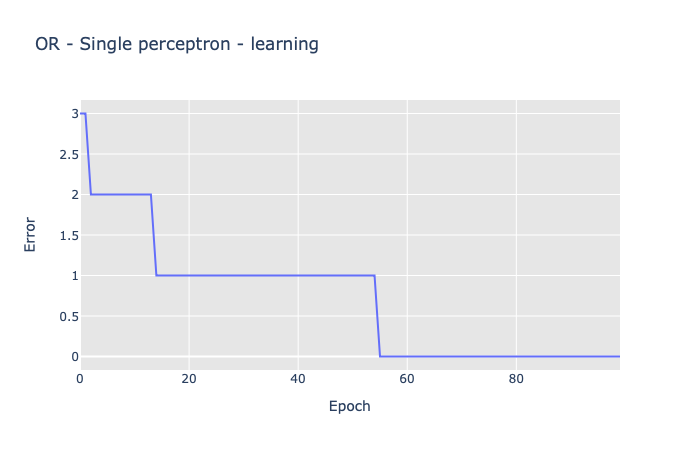
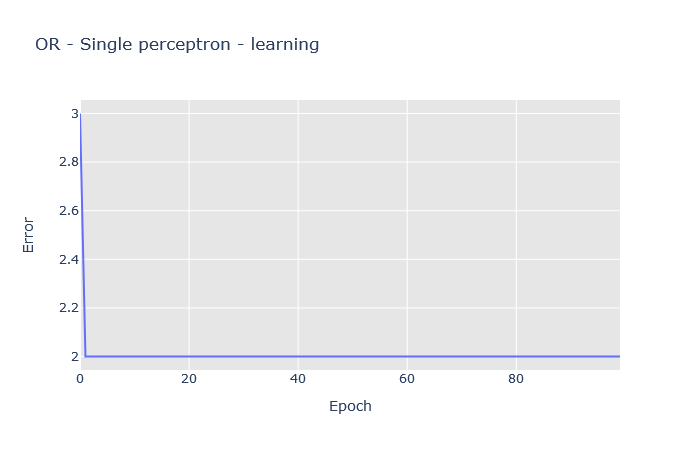
changed initialization weights and bias

diff --git a/Assignment3/Neural_Networks/Perceptron/perceptron.py b/Assignment3/Neural_Networks/Perceptron/perceptron.py
@@ -8,8 +8,8 @@ class Perceptron:
     # Epochs is the number of times the learning algorithm will run before stopping
     def __init__(self, num_inputs, learning_rate=0.01, epochs=100):
         # We might want to change the initialisation of the weights here, something to consider
-        self.weights = np.random.random(num_inputs)
-        self.weights = np.append(self.weights, 1)
+        self.weights = np.zeros(num_inputs + 1)
+        # self.weights = np.append(self.weights, 0)
         self.learning_rate = learning_rate
         self.epochs = epochs
 

diff --git a/Assignment3/Neural_Networks/Perceptron/main.py b/Assignment3/Neural_Networks/Perceptron/main.py
@@ -19,7 +19,7 @@ def main():
 
     csvFile = ["outputs"]
 
-    perceptron.train(training_inputs_OR, labels_OR, csvFile)
+    perceptron.train(training_inputs_AND, labels_AND, csvFile)
 
     with open('data.csv', 'w') as file:
         for line in csvFile:
@@ -27,8 +27,8 @@ def main():
             file.write("\n")
 
     # Test AND gate
-    # inputs = np.array([1, 0])
-    # print(perceptron.prediction(inputs))
+    inputs = np.array([0, 0])
+    print(perceptron.prediction(inputs))
 
 
 if __name__ == "__main__":

diff --git a/Assignment3/Neural_Networks/Perceptron/plotter.py b/Assignment3/Neural_Networks/Perceptron/plotter.py
@@ -8,7 +8,7 @@ fig = go.Figure()
 fig.add_trace(go.Scatter(y=df1["outputs"]))
 
 # Update Random walks to: Random Walks QLearning/Random Toy/Simple-maze
-fig.update_layout(title='XOR - Single perceptron - learning',
+fig.update_layout(title='AND - Single perceptron - learning',
                   xaxis_title='Epoch',
                   yaxis_title='Error',
                   plot_bgcolor='rgb(230, 230,230)')
